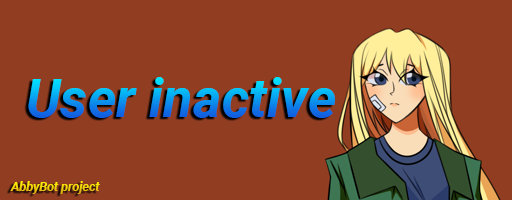
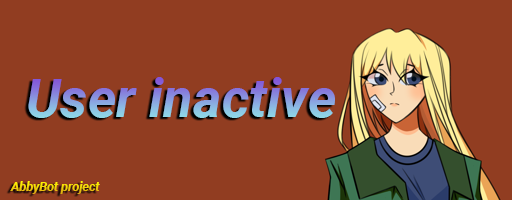
command template and new user inactive color

Changed region(s): [[0.0312, 0.39, 0.6562, 0.6]]

diff --git a/Python_Discord-AbbyBot/command_template.py b/Python_Discord-AbbyBot/command_template.py
@@ -42,8 +42,12 @@ class CommandTemplate(commands.Cog):
         is_active = result[0]
         if is_active == 0:
             try:
-                # Send the embed message as a DM
-                await interaction.user.send(embed=account_inactive_embed())
+                # Get the embed and file
+                embed, file = account_inactive_embed()
+
+                # Send the embed and the file as DM
+                await interaction.user.send(embed=embed, file=file)
+                
                 print(f"User {interaction.user} is inactive and notified.")
             except discord.Forbidden:
                 print(f"Could not send DM to {interaction.user}. They may have DMs disabled.")
